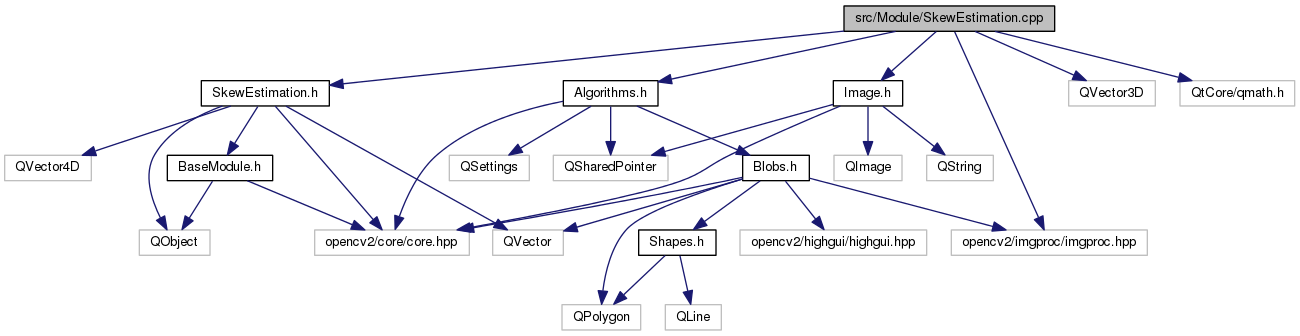
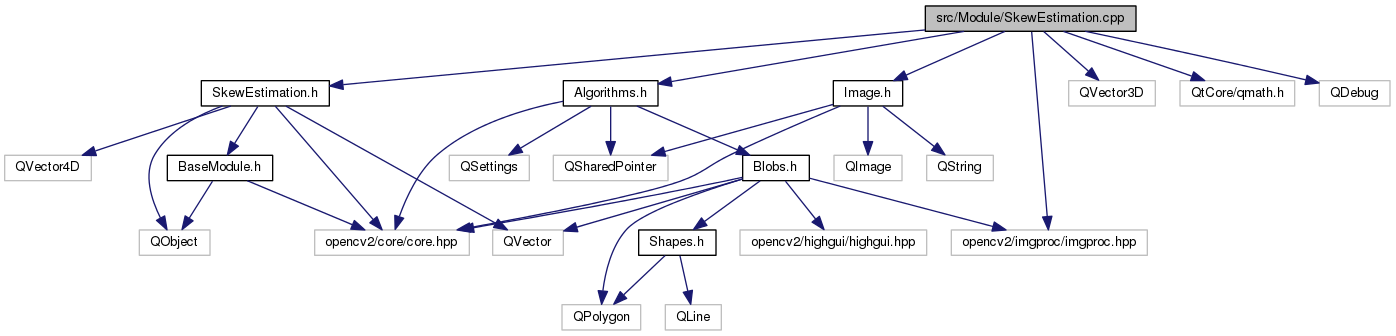
Automated documentation build for changeset 23e6af38ff96bfee9f76985d08544de3ccf6a624.

diff --git a/html/_skew_estimation_8cpp.html b/html/_skew_estimation_8cpp.html
@@ -113,6 +113,7 @@ $(document).ready(function(){initNavTree('_skew_estimation_8cpp.html','');});
 <code>#include &quot;opencv2/imgproc/imgproc.hpp&quot;</code><br/>
 <code>#include &lt;QVector3D&gt;</code><br/>
 <code>#include &lt;QtCore/qmath.h&gt;</code><br/>
+<code>#include &lt;QDebug&gt;</code><br/>
 </div><div class="textblock"><div class="dynheader">
 Include dependency graph for SkewEstimation.cpp:</div>
 <div class="dyncontent">
